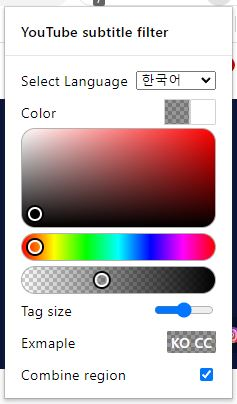
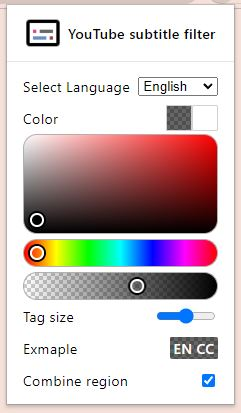
docs: update readme

diff --git a/chrome/html/popup.html b/chrome/html/popup.html
@@ -8,6 +8,10 @@
       <popup-multi-page-menu class="popup-multi-page-menu">
         <div class="items">
           <popup-item-page>
+            <img
+              src="../asset/logo/logo-little.png"
+              style="margin-right: 5px; width: 40px"
+            />
             <span style="font-weight: 600" data-locale="appName"
               >Youtube Subtitle Filter</span
             >

diff --git a/firefox/html/popup.html b/firefox/html/popup.html
@@ -8,6 +8,10 @@
       <popup-multi-page-menu class="popup-multi-page-menu">
         <div class="items">
           <popup-item-page>
+            <img
+              src="../asset/logo/logo-little.png"
+              style="margin-right: 5px; width: 40px"
+            />
             <span style="font-weight: 600" data-locale="appName"
               >Youtube Subtitle Filter</span
             >

diff --git a/README_KO.md b/README_KO.md
@@ -1,14 +1,22 @@
 <p align="center">
-  <img src="https://github.com/2jun0/yt-subtitle-filter/blob/main/chrome/asset/logo/logo-big-128.png" width="75" height="75"/>
+  <img src="chrome/asset/logo/logo-big-128.png" width="75" height="75"/>
 </p>
 
 <h1 align="center">유튜브 자막 필터</h1>
 
 README 페이지를 영문로 보시려면 아래를 참고하세요.
 
-[영문 보기](README.md)
+[영문](README.md)
 
 유튜브 내 동영상 썸네일에 원하는 언어의 자막 태그를 추가해줍니다.
+
+## 다운로드
+
+- [Chrome 웹 스토어](https://chrome.google.com/webstore/detail/Youtube-subtitle-filter/onmelgncdnoihoaopmkcacadlmjmcehd)
+
+- [Firefox Add On](https://addons.mozilla.org/ko/firefox/addon/youtube-subtitle-filter)
+
+---
 
 ## 예시화면
 
@@ -16,15 +24,14 @@ README 페이지를 영문로 보시려면 아래를 참고하세요.
 
 ![동영상 실행 중 예시화면](chrome/asset/showcase/showcase_invideo.jpg)
 
+---
+
 ## 사용자 설정
 
+<img src="chrome/asset/showcase/showcase_popup.jpg" align="right" width="200">
+
 - 팝업 메뉴에서 태그의 색상을 선택할 수 있습니다. (배경색상, 글자색상)
+
 - 태그의 크기를 조절 할 수 있습니다.
+
 - 지역언어 통합 기능으로 여러지역으로 나눠진 자막을 하나로 검색할 수 도 있습니다. (예: 영어(영국) + 영어(미국))
-
-![팝업 예시화면](chrome/asset/showcase/showcase_popup_ko_1.jpg) ![팝업 예시화면](chrome/asset/showcase/showcase_popup_ko_2.jpg)
-
-## 다운로드
-
-- [Chrome 웹 스토어](https://chrome.google.com/webstore/detail/Youtube-subtitle-filter/onmelgncdnoihoaopmkcacadlmjmcehd)
-- [Firefox Add On](https://addons.mozilla.org/ko/firefox/addon/youtube-subtitle-filter)

diff --git a/README.md b/README.md
@@ -1,5 +1,5 @@
 <p align="center">
-  <img src="https://github.com/2jun0/yt-subtitle-filter/blob/main/chrome/asset/logo/logo-big-128.png" width="75" height="75"/>
+  <img src="chrome/asset/logo/logo-big-128.png" width="75" height="75"/>
 </p>
 
 <h1 align="center">YouTube Subtitle Filter</h1>
@@ -7,9 +7,17 @@
 We support Korean version!
 follow the below page to read it in multiple languages.
 
-[한국어 보기](README_KO.md)
+[한국어](README_KO.md)
 
 Add a subtitle tag language that you want on the video thumbnail in the YouTube.
+
+## Download
+
+- [Chrome Web Store](https://chrome.google.com/webstore/detail/Youtube-subtitle-filter/onmelgncdnoihoaopmkcacadlmjmcehd)
+
+- [Firefox Add On](https://addons.mozilla.org/ko/firefox/addon/youtube-subtitle-filter)
+
+---
 
 ## Showcase
 
@@ -17,15 +25,14 @@ Add a subtitle tag language that you want on the video thumbnail in the YouTube.
 
 ![Showcase In Video](chrome/asset/showcase/showcase_invideo.jpg)
 
+---
+
 ## Customize
 
+<img src="chrome/asset/showcase/showcase_popup.jpg" align="right" width="200">
+
 - You can customize tag color in popup menu (background and text color)
+
 - You can resize the subtitle tags
+
 - You can search for subtitles by grouping regions. (ex en-US + en-GB)
-
-![Showcase Popup](chrome/asset/showcase/showcase_popup_1.jpg) ![Showcase Popup](chrome/asset/showcase/showcase_popup_2.jpg)
-
-## Download
-
-- [Chrome Web Store](https://chrome.google.com/webstore/detail/Youtube-subtitle-filter/onmelgncdnoihoaopmkcacadlmjmcehd)
-- [Firefox Add On](https://addons.mozilla.org/ko/firefox/addon/youtube-subtitle-filter)
